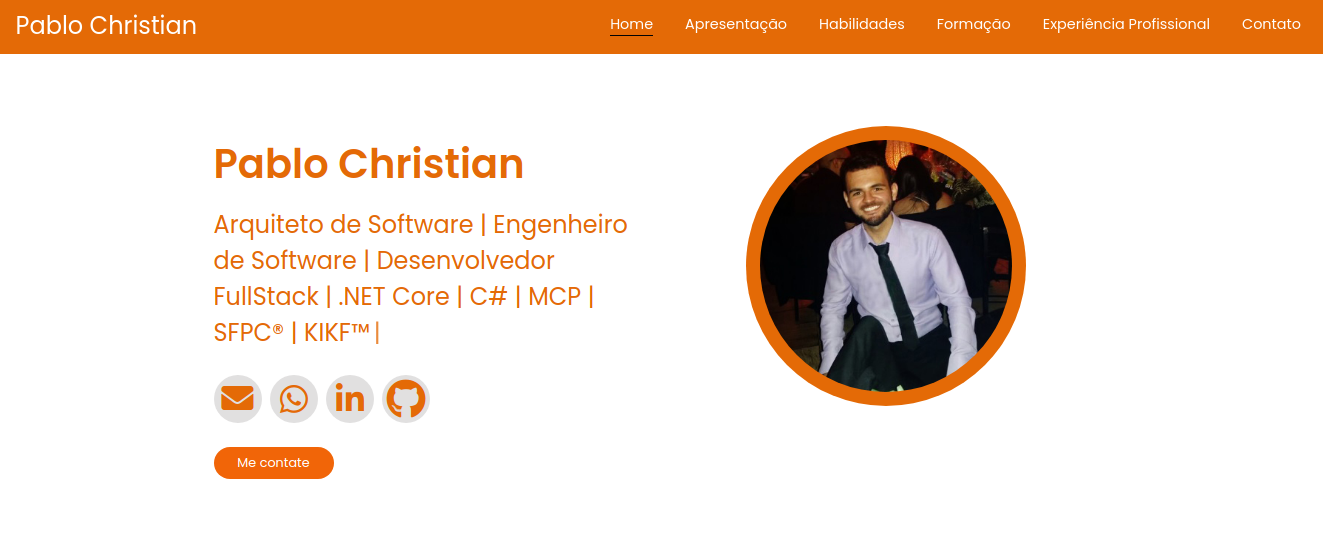
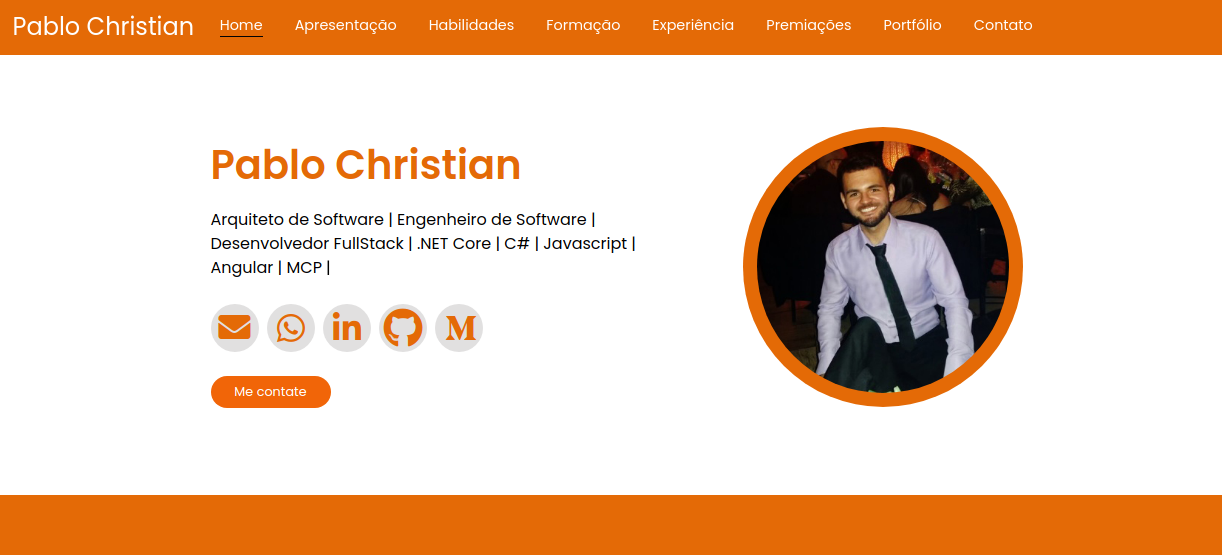
atualização readme

diff --git a/README.md b/README.md
@@ -30,5 +30,8 @@ JQuery
 - Experiência Profissional
 <img src="docs/prints/print5.png">
 
+- Portfolio
+<img src="docs/prints/print7.png">
+
 - Contato
 <img src="docs/prints/print6.png">
